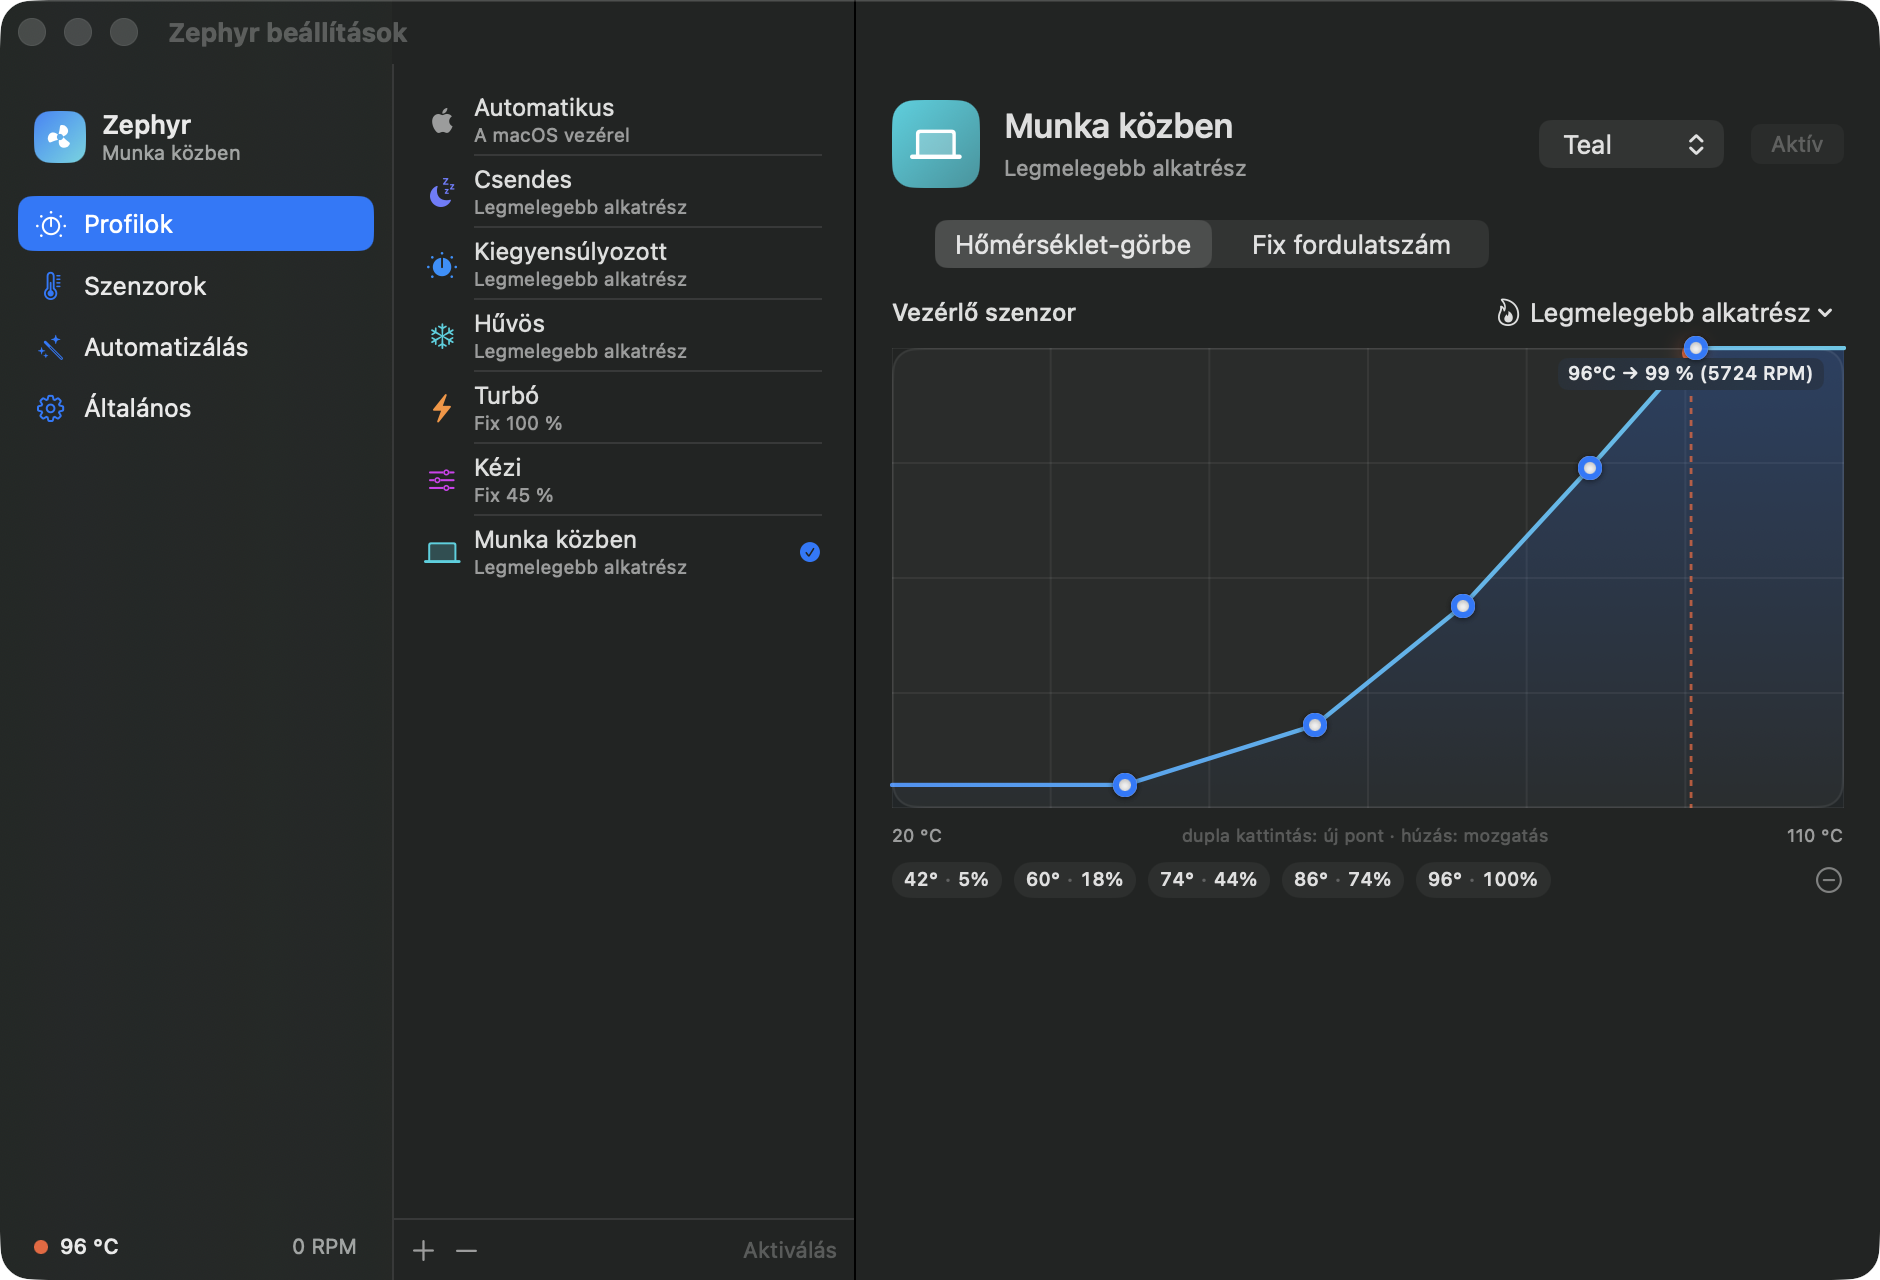
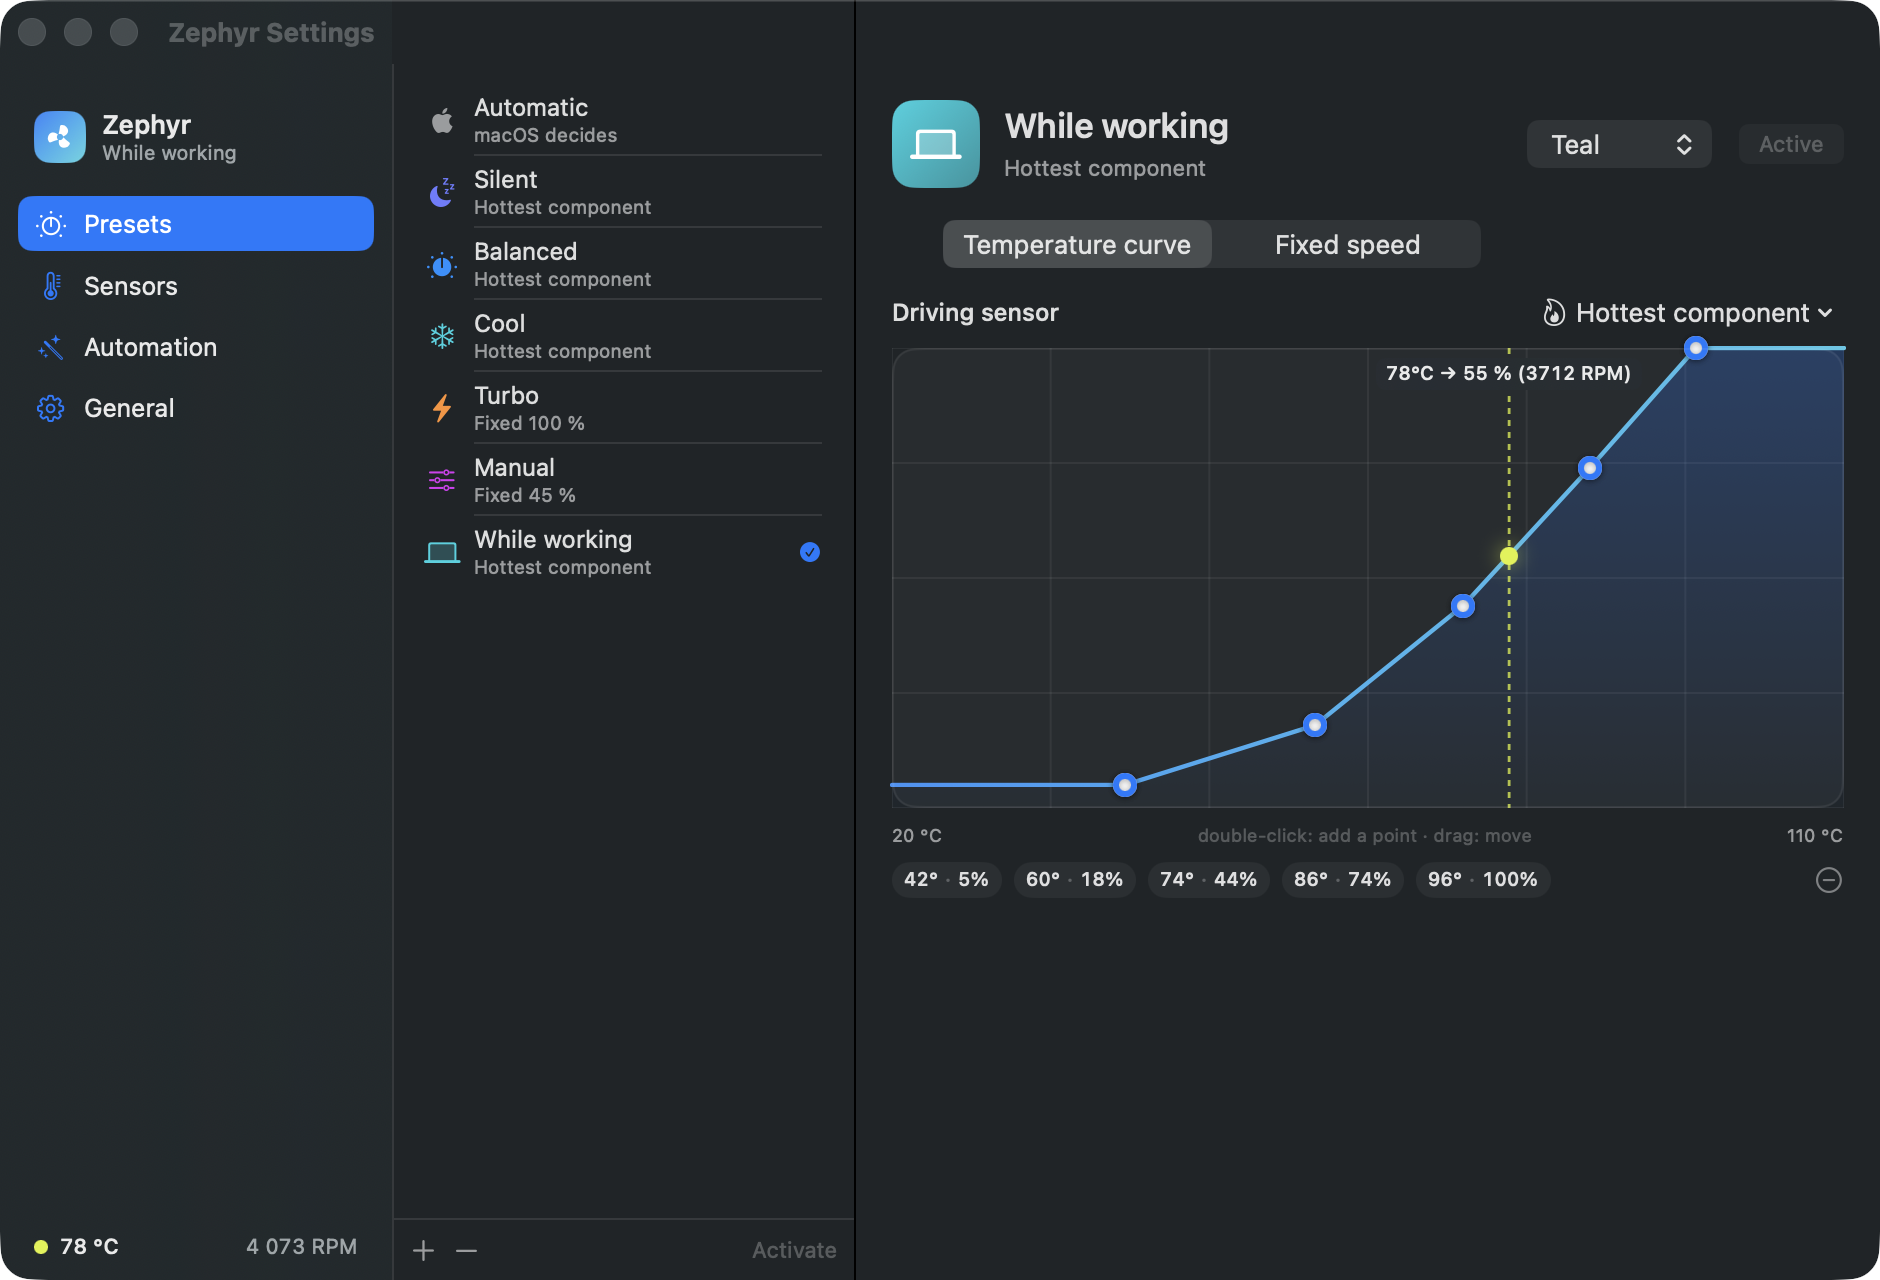
Add a demo GIF, English screenshots and download instructions

diff --git a/README.md b/README.md
@@ -10,8 +10,10 @@
 Built and tested on Apple Silicon (M-series). Intel Macs use the same SMC keys and should work, but nothing here has been verified on one — reports welcome.
 
 <p align="center">
-  <img src="docs/images/panel.png" alt="Zephyr menu bar panel showing temperature, presets and fan gauges" width="360">
+  <img src="docs/images/demo.gif" alt="The Zephyr panel: switching to the Turbo preset and watching both fans ramp to full speed" width="360">
 </p>
+
+<p align="center"><sub>Turbo selected — both fans ramping to their hardware maximum, live.</sub></p>
 
 ## Features
 
@@ -27,6 +29,10 @@ Built and tested on Apple Silicon (M-series). Intel Macs use the same SMC keys a
 
 <p align="center">
   <img src="docs/images/curve.png" alt="Zephyr fan curve editor with draggable points and a live position marker" width="720">
+</p>
+
+<p align="center">
+  <img src="docs/images/panel.png" alt="The Zephyr panel with presets, fan gauges and a temperature trend" width="340">
 </p>
 
 ## Safety
@@ -46,6 +52,20 @@ Zephyr never lowers fans below the firmware minimum, and "Automatic" is a genuin
 - Xcode command line tools, to build
 
 ## Install
+
+### Download a build
+
+Grab `Zephyr-1.0-arm64.zip` from the [latest release](https://github.com/Bajnok11/Zephyr/releases/latest), unzip it, and drag `Zephyr.app` into `~/Applications`.
+
+The app is signed ad-hoc rather than with a paid Apple Developer certificate, so Gatekeeper will not open it on the first try. Clear the download quarantine once:
+
+```bash
+xattr -dr com.apple.quarantine ~/Applications/Zephyr.app
+```
+
+Then open it normally. (Right-click → **Open** works too, but the command is less fiddly.) If you would rather not trust a binary from a stranger on the internet — a reasonable instinct for something that runs a root daemon — build it yourself instead; it takes about a minute.
+
+### Build from source
 
 ```bash
 git clone https://github.com/Bajnok11/Zephyr.git
